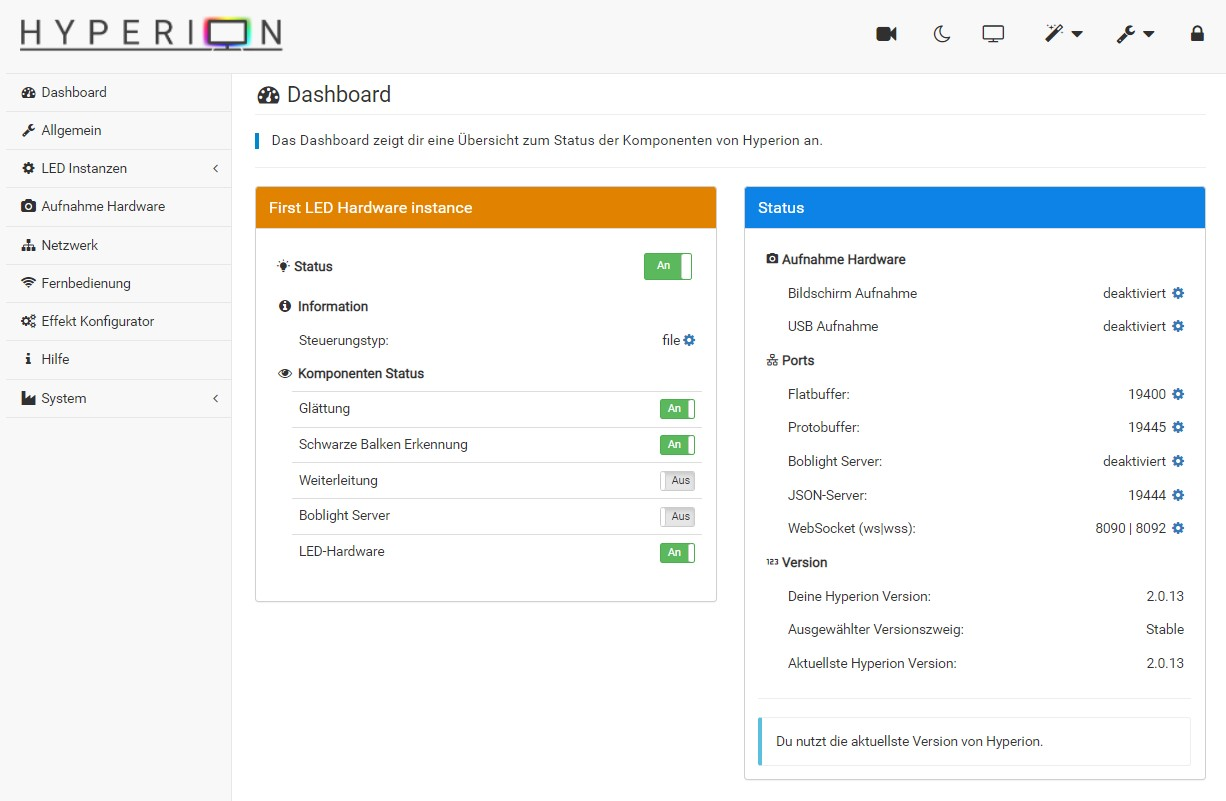
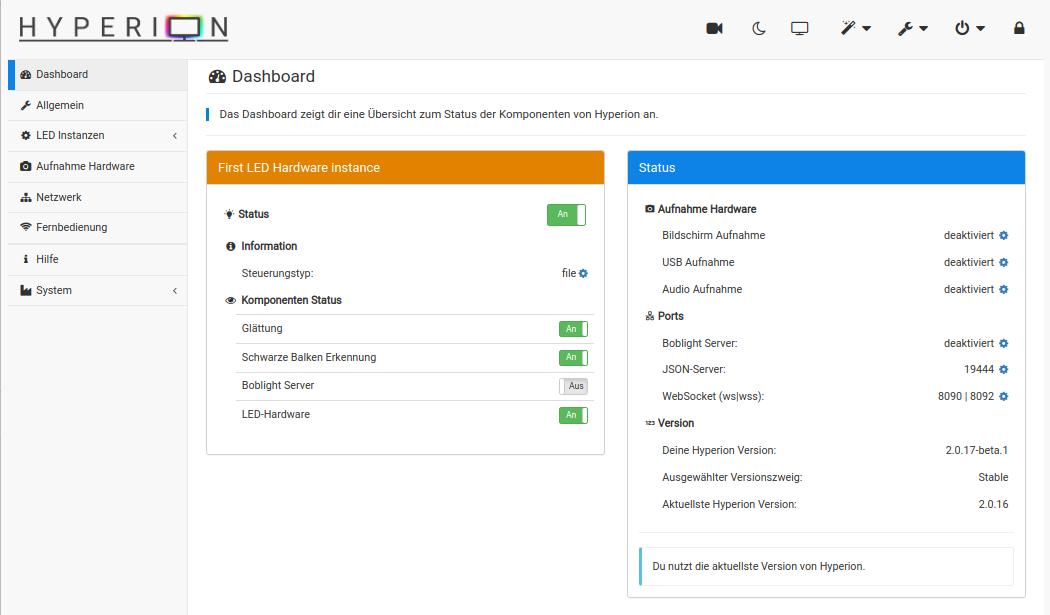
Update Configuration

diff --git a/docs/en/user/advanced/Advanced.md b/docs/en/user/advanced/Advanced.md
@@ -4,7 +4,7 @@ Specific topics with details
 [[TOC]]
 
 ## LED Layout
-Hyperion assigns each single led a specific position at the picture. These positions are squares and to create a square you need 4 values (top edge, bottom edge, left edge, right edge). These edges are reflected in `hmin`, `hmax` for horizontal and `vmin`, `vmax` for vertical. They have a value range from `0.0` to `1.0`.
+Hyperion assigns each single LED a specific position at the picture. These positions are squares and to create a square you need 4 values (top edge, bottom edge, left edge, right edge). These edges are reflected in `hmin`, `hmax` for horizontal and `vmin`, `vmax` for vertical. They have a value range from `0.0` to `1.0`.
 
 <ImageWrap src="/images/en/user_ledlayout.jpg" alt="Hyperion Led Layout">
 Assignment of LED edges
@@ -22,13 +22,13 @@ So let's have a closer look. Following a single led definition:
 ```
 Let's visualize the example above!
 
-<ImageWrap src="/images/en/user_ledlayout1.jpg" alt="Hyperion Led Layout">
-A single led definition
+<ImageWrap src="/images/en/user_ledlayout1.jpg" alt="Hyperion LED Layout">
+A single LED definition
 
 </ImageWrap>
 
-So let us add 2 more leds to make it more clear \
-**The order is important! The first entry is the first led, the second the second led, ...**
+So let us add 2 more LEDs to make it more clear \
+**The order is important! The first entry is the first LED, the second the second LED, ...**
 ``` json
 {
   "hmax": 0.2,
@@ -49,13 +49,13 @@ So let us add 2 more leds to make it more clear \
   "vmin": 0.7
 }
 ```
-<ImageWrap src="/images/en/user_ledlayout2.jpg" alt="Hyperion Led Layout">
+<ImageWrap src="/images/en/user_ledlayout2.jpg" alt="Hyperion LED Layout">
 Now with three LEDs
 
 </ImageWrap>
 
 ### Additional properties
-You may connected different led stripe charges with different RGB byte orders. You can overwrite the global RGB byte order by adding a `colorOrder` property to all leds that require a different one.
+You may connected different LED stripes with different RGB byte orders. You can overwrite the global RGB byte order by adding a `colorOrder` property to all LEDs that require a different one.
 ``` json
 {
   "hmax": 0.2,
@@ -77,7 +77,7 @@ You may connected different led stripe charges with different RGB byte orders. Y
   "vmin": 0.7
 }
 ```
-In this example the first led will be `gbr`, the other leds will be assigned to the global RGB order that has been defined at the led hardware section.
+In this example the first LED will be `gbr`, the other LEDs will be assigned to the global RGB order that has been defined at the led hardware section.
 
 ### Edit with Web Configuration
 While editing these values in a local texteditor is a little bit weird, you could edit them at the web configuration!
@@ -171,27 +171,71 @@ Hyperion remote will search for a Hyperion server automatically. So you can even
 :::
 
 ### hyperion-capture
- We deliver also stand alone capture apps right in your Hyperion directory. They are called hyperion-dispmanx, hyperion-osx, hyperion-x11, hyperion-amlogic, hyperion-framebuffer, hyperion-qt. Depending on your platform you have more or less.
+ We deliver also stand alone capture apps right in your Hyperion directory:
+ 
+Executable  | Source
+| :--- | :---
+hyperion-aml | Amlogic screen capture
+hyperion-dispmanx | DispManX Raspberry Pi screen capture
+hyperion-framebuffer | Linux FrameBuffer screen capture 
+hyperion-osx | macOS screen capture
+hyperion-qt | Qt multi platform screen capture
+hyperion-v4l2 | USB capture
+hyperion-x11 | X11 screen capture
+hyperion-xcb | XCB screen capture
 
-All these application can be started independent from Hyperion and all of these have slightly different options. They communicate with the flatbuffer interface of Hyperion. So let's start one of them! In this example i use dispmanx for Raspberry Pi, so let us check the available options.
+Depending on your platform you have more or less
+
+All these application can be started independent from Hyperion and all of these have slightly different options. They communicate with the flatbuffer interface of Hyperion. 
+Each module will search a Hyperion server automatically, if the `--address option is not used.
+
+Below you find the output of Qt capture executable for illustration.
 
 ``` sh
-hyprion-dispmanx -h
-  -f, --framerate <framerate>  Capture frame rate [default: 10]
-  --width <width>              Width of the captured image [default: 64]
-  --height <height>            Height of the captured image [default: 64]
-  --screenshot                 Take a single screenshot, save it to file and quit
-  -a, --address <address>      Set the address of the hyperion server [default: 127.0.0.1:19445]
-  -p, --priority <priority>    Use the provided priority channel (suggested 100-199) [default: 150]
-  --skip-reply                 Do not receive and check reply messages from Hyperion
-  -h, --help                   Show this help message and exit
-  --crop-left <crop-left>      pixels to remove on left after grabbing
-  --crop-right <crop-right>    pixels to remove on right after grabbing
-  --crop-top <crop-top>        pixels to remove on top after grabbing
-  --crop-bottom <crop-bottom>  pixels to remove on bottom after grabbing
-  --3DSBS                      Interpret the incoming video stream as 3D side-by-side
-  --3DTAB                      Interpret the incoming video stream as 3D top-and-bottom
+hyperion-qt --help
+hyperion-qt:
+	Version   : 2.0.16 ((HEAD detached at 2.0.16) (Paulchen-Panther-cb85d2d/a93d79b-1705568419))
+	build time: Jan 18 2024 09:15:43
+Usage: ./bin/hyperion-qt [options]
+Qt interface capture application for Hyperion. Will automatically search a Hyperion server if -a option isn't used. Please note that if you have more than one server running it's more or less random which one will be used.
 
-# Let's start with capture interval of 15, width of 100 and a height of 100
-hyperion-dispmanx -a 192.168.0.20:19445 -f 15 --width 100 --height 100
+Options:
+  -d, --display <display>                Set the display to capture [default:
+                                         0]
+  -f, --framerate <framerate>            Capture frame rate. Range 1-30fps
+                                         [default: 25]
+  -s, --size-decimator <size-decimator>  Decimation factor for the output image
+                                         size [default=8]
+  --crop-left <crop-left>                Number of pixels to crop from the left
+                                         of the picture before decimation
+  --crop-right <crop-right>              Number of pixels to crop from the
+                                         right of the picture before decimation
+  --crop-top <crop-top>                  Number of pixels to crop from the top
+                                         of the picture before decimation
+  --crop-bottom <crop-bottom>            Number of pixels to crop from the
+                                         bottom of the picture before decimation
+  --3DSBS                                Interpret the incoming video stream as
+                                         3D side-by-side
+  --3DTAB                                Interpret the incoming video stream as
+                                         3D top-and-bottom
+  -a, --address <address>                The hostname or IP-address (IPv4 or
+                                         IPv6) of the hyperion server.
+                                         Default host: 127.0.0.1, port: 19400.
+                                         Sample addresses:
+                                         Host : hyperion.fritz.box
+                                         IPv4 : 127.0.0.1:19400
+                                         IPv6 : [2001:1:2:3:4:5:6:7]
+  -p, --priority <priority>              Use the provided priority channel
+                                         (suggested 100-199) [default: 150]
+  --skip-reply                           Do not receive and check reply
+                                         messages from Hyperion
+  --screenshot                           Take a single screenshot, save it to
+                                         file and quit
+  --debug                                Enable debug logging
+  -h, --help                             Show this help message and exit
+``` 
+
+Sample with a capture interval of 15fps
+```
+hyperion-qt -f 15
 ```

diff --git a/docs/en/user/Configuration.md b/docs/en/user/Configuration.md
@@ -1,8 +1,8 @@
 # Configuration
-Hyperion is fully configurable via web browser. The interface is fully responsive and created with touch devices in mind.
+Hyperion is fully accessible & configurable via web browser. The interface is fully responsive and created with touch devices in mind.
 
-## Web Configuration
-Open the web configuration by typing the IP address of your device and the port 8090 in your browser. The installation script will show you the address, if you don't know it. \
+## Web Interface
+Open the web interface by typing the IP address of your device and the port 8090 in your browser. The installation script will show you the address, if you don't know it. \
 **Example:** `http://192.168.0.20:8090`
 
 ### Dashboard
@@ -11,31 +11,34 @@ Open the web configuration by typing the IP address of your device and the port 
 
 
  **Top right navbar**
- * **Camera** - You want to record your browser window? It is possible.
+ * **Camera** - Record your browser window as an input
  * **Moon** - Dark Mode.
- * **Arrows** - Switch between different LED hardware instances (If multiple are available)
- * **TV** - Live led visualization
+ * **TV** - Live LED visualization
  * **Magic wand** - Wizards that guide you through color calibration and more
- * **Wrench** - Settings for language selection, settings level, logout, ...
+ * **Wrench** - Settings for language selection, settings level, UI locking password
+ * **Power** - Suspend, resume or restart
+ * **Lock** - Lock the Hyperion user interface 
  
  **Left sidebar**
- * **Dashboard** - Yes, here we are.
- * **Configuration** - All available settings
- * **Remote Control** - Control Hyperion like any other Hyperion remote application
- * **Effects Configurator** - Create new effects based on effect templates
+ * **Dashboard** - Control an instance's components or global settings
+ * **General** - General settings and LED hardware instance management
+ * **LED Insatnces** - Configure an LED instance
+ * **Capturing Hardware** - Configure the different ways of capturing content, i.e. screen, video or audio 
+ * **Network Services** - Network related configurations
+ * **Remote Control** - Control Hyperion, change settings temporarily or trigger effects
  * **Support** - Where you get support and how to support us (and why)
- * **System** - Inspect your log messages, upload a report for support, credits page, etc
+ * **System** - Configure to react on system eventsm, inspect your log messages or get more details about the running Hyperionsystem
 
  **Page**
- * The **Information** panel shows some important/useful informations. With a small smart access area with important actions.
- * The **Component status** shows always the latest state (enabled/disabled) of the components
+ * The **LED Hardware Instance** shows always the latest state (enabled/disabled) of an instance's components
+ * The **Status** panel shows the state of instance independent components, plus the current version
 
 ::: tip Hashtag navigation
 The web configuration supports hashtags for sitenames, so you could directly open a specific page by calling the hashtag. **Example:** `http://192.168.0.20:8090/#remote` - will open the remote control page.
 :::
 
 ### Configuration
-We added additional information(s) to each option. Some topics require additional attention which are covered here. If you need more help or something lacks of infos, just dive into our Forum.
+We added additional information(s) to each option. Some topics require additional attention which are covered here. If you need more help or something lacks of infos, just dive into our [Forum](https://hyperion-project.org/forum/).
 
 #### Language
 By default, the web configuration selects the language based on your browser locale or best matching next to. So no configuration is required. In case you want to start learning Hyperion in another language, select from the provided once.
